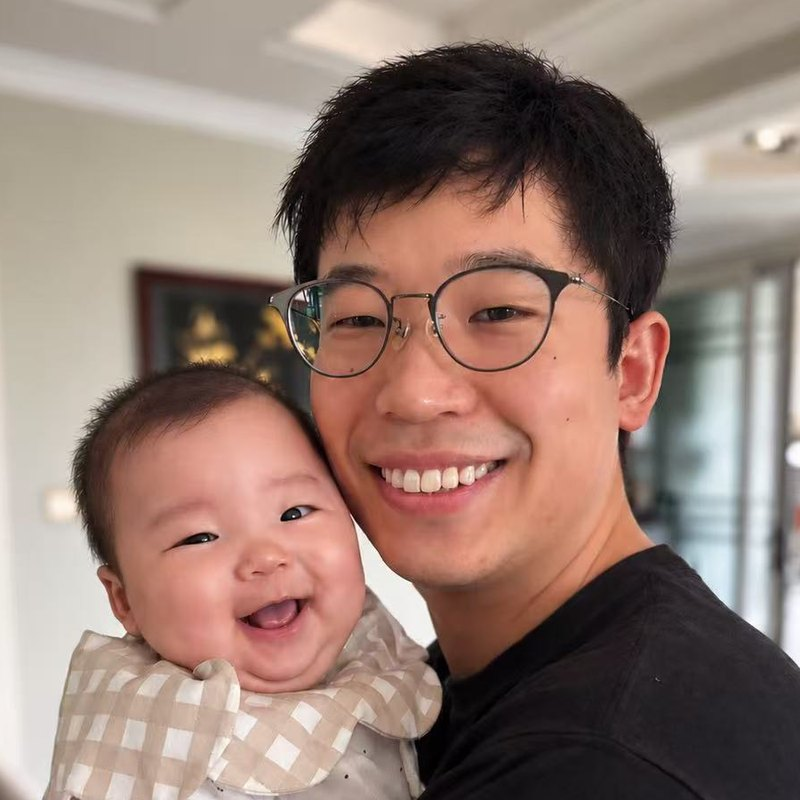
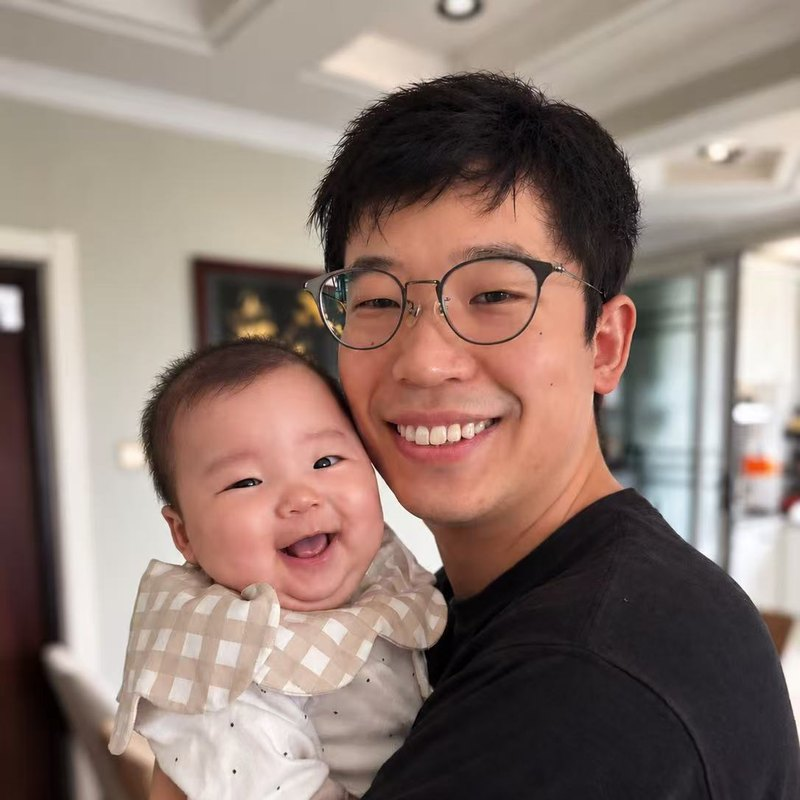
Update site (guang000-site-20261028-1825)

diff --git a/index.html b/index.html
@@ -108,7 +108,7 @@
       <figcaption>At work</figcaption>
     </figure>
     <figure>
-      <img src="assets/photo-life.jpg?v=202610281820" alt="Guang Li at home holding his baby" width="800" height="800" loading="lazy">
+      <img src="assets/photo-life.jpg?v=202610281825" alt="Guang Li at home holding his baby" width="800" height="800" loading="lazy">
       <figcaption>At home</figcaption>
     </figure>
   </div>
